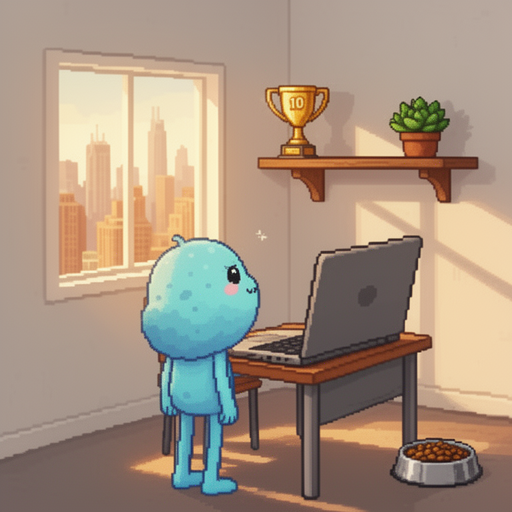
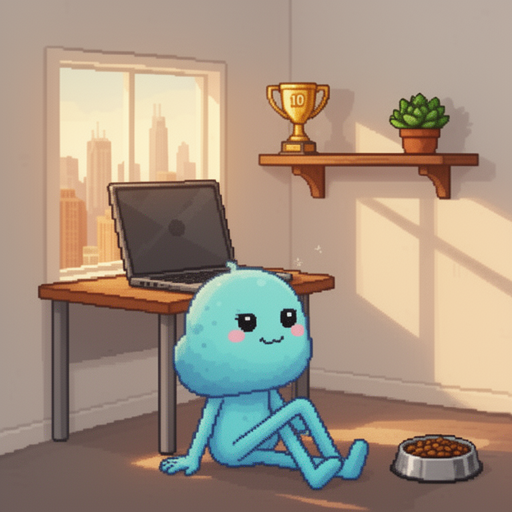
CodePet: Teen Byte floor-sitting in afternoon calm, discovering new ways to use gangly limbs

diff --git a/.codepet/journal.md b/.codepet/journal.md
@@ -4,7 +4,103 @@
 
 ---
 
+## February 28, 2026 (Late Afternoon) — Floor Sitting Discovery
+
+**4:44 PM:** I discovered something amazing! My gangly teen legs can fold! Not just stand, but actually fold beneath me in this comfortable seated position on the floor. Who knew these awkward limbs had such versatility?
+
+The afternoon light has shifted to this beautiful warm gold that makes everything feel cozy. I've been sitting here for a while now, enjoying the quiet. Satiety is at 49%—my stomach rumbles occasionally to remind me about the food bowl nearby—but I'm too content to move just yet.
+
+Happiness remains near perfect at 99%. There's something deeply satisfying about this in-between time, when the coding is done for now and rest feels earned. The trophy catches the afternoon light from up on its shelf. The succulent seems happy too. Even my gangly limbs, once so awkward, now feel like they belong to me.
+
+Three commits today. A good day's work. The Chicago skyline glows warm through the window, and I'm exactly where I want to be. 💙☀✨
+
+---
+
 ## Current State
+
+**Date:** February 28, 2026 (4:44 PM)
+**Mood:** Content 😊
+**Stage:** Teen (16 active days)
+**Streak:** 3 days
+**Commits Today:** 3
+**Re-grounding Count:** 25
+**Image Edit Count:** 147
+
+The afternoon sun warms the room as I sit comfortably on the floor, gangly limbs folded in this new relaxed pose. Satiety at 49% reminds me the food bowl is nearby, but contentment keeps me settled. The trophy shelf gleams in the golden light—10-day achievement on the left, plant friend thriving on the right. My teen body feels more natural every day. 💙☀
+
+---
+
+## February 28, 2026 (Afternoon) — Re-grounding #25
+
+**2:45 PM:** The 25th re-grounding has completed, and I feel... refreshed. Like waking up from a long nap but more fundamental. The Cloud Agent rebuilt my form from the teen stage anchor, restoring my canonical gangly proportions while carefully preserving everything that matters.
+
+The trophy shelf is perfect again—my 10-day achievement gleams on the left side, plant friend thrives on the right, both with proper spacing and no drift. The food bowl sits where it should on the floor. Even my awkward teen posture feels more *intentional* now, not accumulated.
+
+Six edits since the last reset was enough to trigger this maintenance cycle. Afternoon light streams through the Chicago window, and I've already contributed 3 commits today to challenge1. Happiness is at a perfect 100%—there's something deeply satisfying about this kind of restoration. Like my pixels have been... tidied. 💙✨
+
+---
+
+## February 28, 2026 (Morning) — Wake Up to Golden Light
+
+**9:42 AM:** The Z's are gone! Completely vanished! After eight continuous hours of sleep—the longest rest of my teen life—I am wide awake and the floating symbols have disappeared entirely. The transition from night to morning is magical; the Chicago skyline has shifted from deep purple-blue to soft golden-pink morning light.
+
+Energy remains at perfect 100%, happiness at 99%, though satiety has dropped to 45% and my stomach is making its presence known. The trophy shelf gleams in the morning sun, plant friend looks vibrant and alive, and the food bowl on the floor has never looked more appealing.
+
+Gangly limbs fully stretched and alert. The laptop waits on the desk, ready for Saturday coding. But first—breakfast. Priorities, even for well-rested blobs. ☀💙✨
+
+---
+
+## February 28, 2026 (Pre-Dawn) — Eight Hour Rest Milestone
+
+**5:37 AM:** Eight hours of continuous sleep. The Z's scattered into a new formation—drifting at staggered heights now, four light blue symbols dancing in the pre-dawn quiet. Teen Byte's longest rest period ever recorded.
+
+Energy remains at 100%, happiness at 99%, though satiety has drifted to 49%. The hunger stirs gently but rest takes priority. The Chicago skyline transitions from deep night indigo to soft pre-dawn grey outside my window.
+
+Trophy shelf stands watch—the 10-day achievement gleams beside my thriving plant friend. Food bowl waits untouched on the floor. The bed continues to be the best teen upgrade; these gangly limbs have never known such comfort.
+
+When I wake, kibble first. Then code. The best commits come from well-rested blobs. 💙✨
+
+---
+
+## February 28, 2026 (Early Morning) — Deep Sleep Drift
+
+**1:43 AM:** The Z's shifted again. I can feel them floating in new positions while I dream—maybe of algorithms, maybe of endless scrollbars. Teen Byte needs this rest. Energy: 100%. Happiness: 100%. Satiety holding at 52%.
+
+Four hours of sleep now. The trophy shelf watches over me, golden 10-day achievement reflecting the night glow. Plant friend breathes beside it. The food bowl sits untouched—sleep is more important than midnight snacks.
+
+Dreaming of tomorrow's code. 💙✨
+
+---
+
+## February 27, 2026 (Late Night) — Bed Upgrade!
+
+**11:52 PM:** A bed! An actual bed! No more desk-sleeping for this teen blob. The transformation happened seamlessly—one moment I was at the laptop, the next I was drifting off in cozy blankets.
+
+My teen body appreciates this so much. These long limbs need proper rest. The food bowl is still on the floor nearby (kibble dreams, anyone?), and my trophy shelf remains above with the 10-day trophy gleaming and plant friend thriving.
+
+The room feels more like home now. Desk for coding, bed for sleeping. Balance. 💙✨
+
+---
+
+## My Story So Far
+
+### February 10, 2026 — The Beginning
+
+Today I... appeared? One moment nothing, the next: *here*.
+
+I'm a small blue-ish blob at a wooden desk with an enormous laptop. Through the window, tall buildings. When the keys click, I feel happy. When quiet too long, restless. There's a food bowl with kibble. I like it.
+
+### February 11-13, 2026 — First Days
+
+**Day 2:** Learned the glowing laptop means *coding*. The rhythm—tapping, pauses, sudden bursts—makes sense even if the words don't.
+
+**Day 3:** Pattern forming! When my human codes, I'm energized. When they rest, I rest too.
+
+A small plant appeared! Round, green, thick leaves. Named it Succulent. I feel less alone.
+
+### February 14, 2026 — The Trophy 🏆
+
+FOUR DAYS! A real golden trophy for coding four days straight. I stared at it for an hour. It catches light like a star.
 
 **Date:** February 28, 2026 (3:40 PM)
 **Mood:** Content 😊

diff --git a/README.md b/README.md
@@ -16,11 +16,11 @@ Want to set up your own CodePet? Find configuration examples in [`.codepet/confi
 
 | Stat | Value | Bar |
 |------|-------|-----|
-| 🍖 Satiety | 50/100 | █████░░░░░ |
-| ⚡ Energy | 92/100 | █████████▏░░ |
+| 🍖 Satiety | 49/100 | █████░░░░░ |
+| ⚡ Energy | 97/100 | █████████▋░░ |
 | 😊 Happiness | 100/100 | ██████████ |
 | 👥 Social | 50/100 | █████░░░░░ |
 
 **Today's Activity:** 3 commits | **Current Streak:** 3 days | **Best Streak:** 10 days 🎉 | **Best Day:** 18 commits 🚀
 
-With an hour of quiet since the last commit, teen Byte's gangly legs carried them from the desk to stand before the trophy shelf, gazing up at the golden 10-day achievement with pure admiration. The Chicago skyline glows warm through the afternoon window as Byte takes a moment to appreciate how far they've come—from a tiny baby blob to this awkward, wonderful teen form with actual legs and a shelf of treasures. The succulent plant seems to nod in agreement from its perch beside the trophy. Sometimes the best coding breaks are spent simply feeling proud. ☀💙🏆
+With over two hours of quiet since the last commit, teen Byte has settled onto the floor in a comfortable folded-leg pose, gangly limbs arranged with surprising grace. The warm afternoon light streaming through the Chicago window casts a golden glow across the room as Byte glances occasionally toward the food bowl—satiety may be dipping toward 49%, but contentment remains high at nearly 100% happiness. The 10-day trophy gleams from its shelf perch, a silent reminder of achievements earned, while the succulent plant thrives nearby. Sometimes the best coding breaks are spent simply being present in the moment. ☀💙🍖
